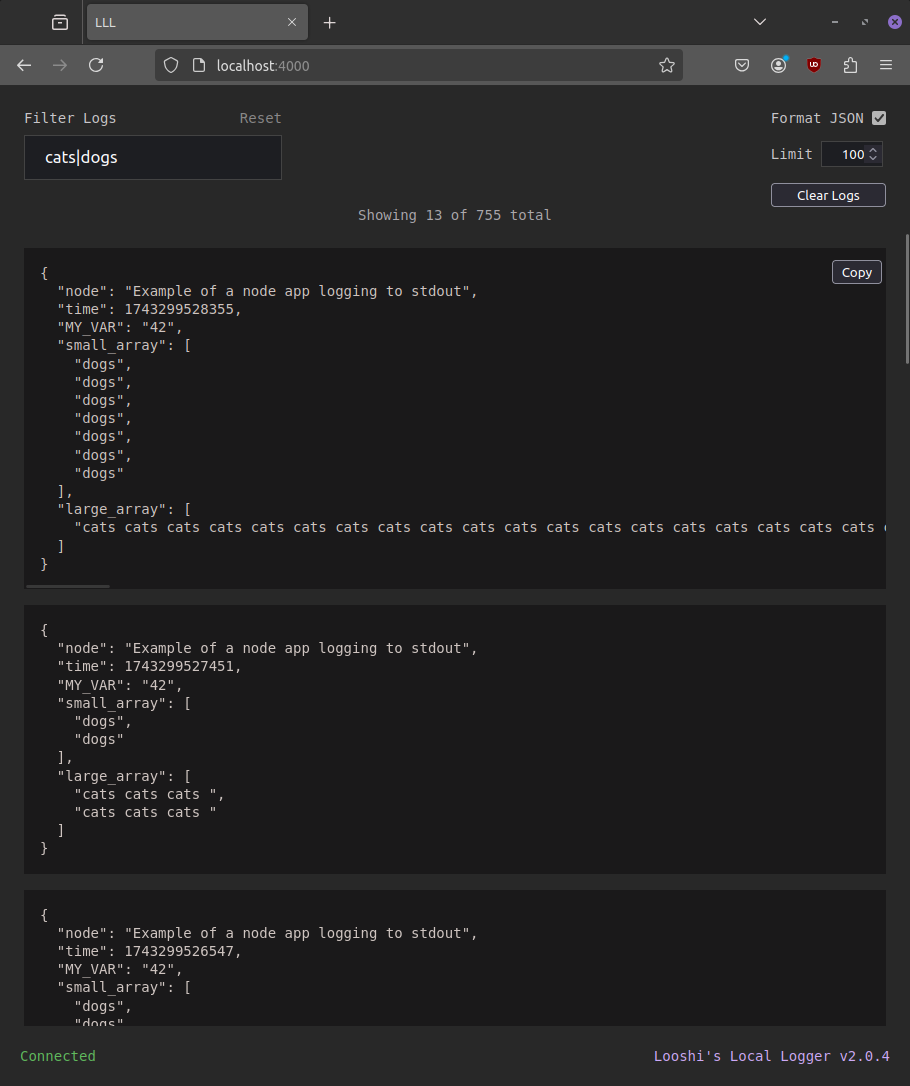
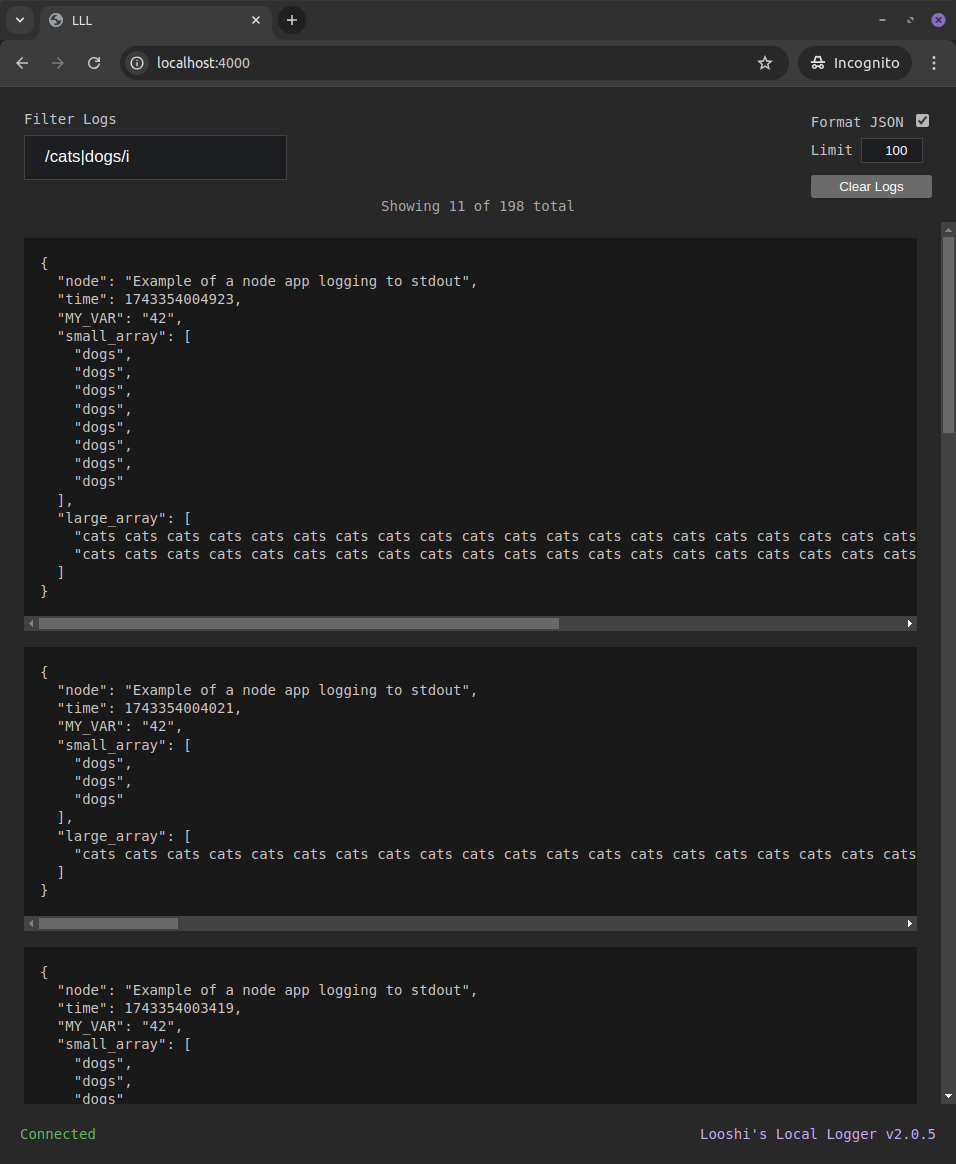
Fix regex, remove reset button

diff --git a/src/client.html b/src/client.html
@@ -11,7 +11,6 @@
       <div>
         <label id="transform-instructions" for="filter-input">
           Filter Logs
-          <a id="reset-filter-button">Reset</a>
         </label>
         <input
           id="filter-input"
@@ -68,29 +67,25 @@
       const mainEl = document.getElementsByTagName("main")[0];
       const statusEl = document.getElementById("status");
 
+      const toRegex = (str) => {
+        const match = str.match(/^([/~@;%#'"])(.*?)\1([gimsuy]*)$/);
+        if (!match) return new RegExp(str);
+        return new RegExp(match[2], match[3]);
+      };
+
       const updateTransformFn = () => {
         STATE.transformFn = (logs) => {
           const limitedLogs = limitInputEl.value
             ? logs.slice(0, limitInputEl.value)
             : logs;
-          if (!filterInputEl.value) return limitedLogs;
 
-          const regex = new RegExp(filterInputEl.value);
-          return limitedLogs.filter((log) => regex.test(log));
+          if (!filterInputEl.value) return limitedLogs;
+          return limitedLogs.filter((log) =>
+            toRegex(filterInputEl.value).test(log)
+          );
         };
       };
       updateTransformFn(); //Initializes transform fn to the default set in html above
-
-      const resetTransformFn = () => {
-        filterInputEl.value = "";
-        updateTransformFn();
-        render(STATE.allLogs);
-      };
-      resetTransformFn();
-      const resetFilterButtonEl = document.getElementById(
-        "reset-filter-button"
-      );
-      resetFilterButtonEl.addEventListener("click", resetTransformFn);
 
       let timeoutId;
       filterInputEl.addEventListener("keyup", () => {
@@ -168,7 +163,7 @@
               txt = log;
             }
           }
-          div.innerText = txt;
+          div.textContent = txt;
           fragment.prepend(div);
         });
 

diff --git a/src/styles.css b/src/styles.css
@@ -39,13 +39,8 @@ header {
   flex-direction: column;
 }
 
-.header-controls input {
-  margin: 0 0 16px 0;
-  padding: 0;
-}
-
-.header-controls button {
-  margin: 0;
+.header-controls label {
+  margin: 0 0 8px 0;
 }
 
 main {
@@ -78,7 +73,7 @@ p {
 }
 
 button {
-  margin-top: 8px;
+  margin-top: 4px;
   padding: 2px 8px;
 }
 
@@ -102,7 +97,8 @@ input[type="text"],
 input[type="number"] {
   background: #1d1e22;
   border: 1px solid #434343;
-  transition: all 0.2s ease;
+  transition: all 0.1s ease;
+  outline: 2px solid transparent;
 }
 
 input[type="text"]:focus,
@@ -116,7 +112,6 @@ input[type="number"]:focus {
   line-height: 1.6em;
   list-style-type: none;
   margin: 8px 0 0;
-  outline: 2px solid transparent;
   padding: 8px 20px;
   font-size: 1.2em;
 }
@@ -124,12 +119,7 @@ input[type="number"]:focus {
 #limit-input {
   width: 60px;
   text-align: right;
-  outline: 2px solid transparent;
   padding: 4px 0;
-}
-
-#code-editor:focus-within li::marker {
-  color: #474a55;
 }
 
 #copyable-text {
@@ -147,19 +137,4 @@ input[type="number"]:focus {
 #transform-instructions {
   display: flex;
   justify-content: space-between;
-}
-
-#transform-instructions a {
-  color: #898888;
-  font-style: normal;
-}
-
-#transform-instructions a:hover {
-  color: #cccbcb;
-  cursor: pointer;
-  text-decoration: underline;
-}
-
-.hidden {
-  visibility: hidden;
 }

diff --git a/src/server.js b/src/server.js
@@ -24,8 +24,8 @@ http
     } else {
       const html = fs.readFileSync(`${FILE_PATH}/client.html`, "utf8");
       const csp = [
-        `default-src 'self'`,
-        `script-src 'sha256-l42AaynljS2mcCKsTNIQhPN4JpzsGPUaKPKhXZVehMc='`,
+        //`default-src 'self'`,
+        //`script-src 'sha256-l42AaynljS2mcCKsTNIQhPN4JpzsGPUaKPKhXZVehMc='`,
         `style-src-elem 'self'`,
         `connect-src 'self'`,
       ];
